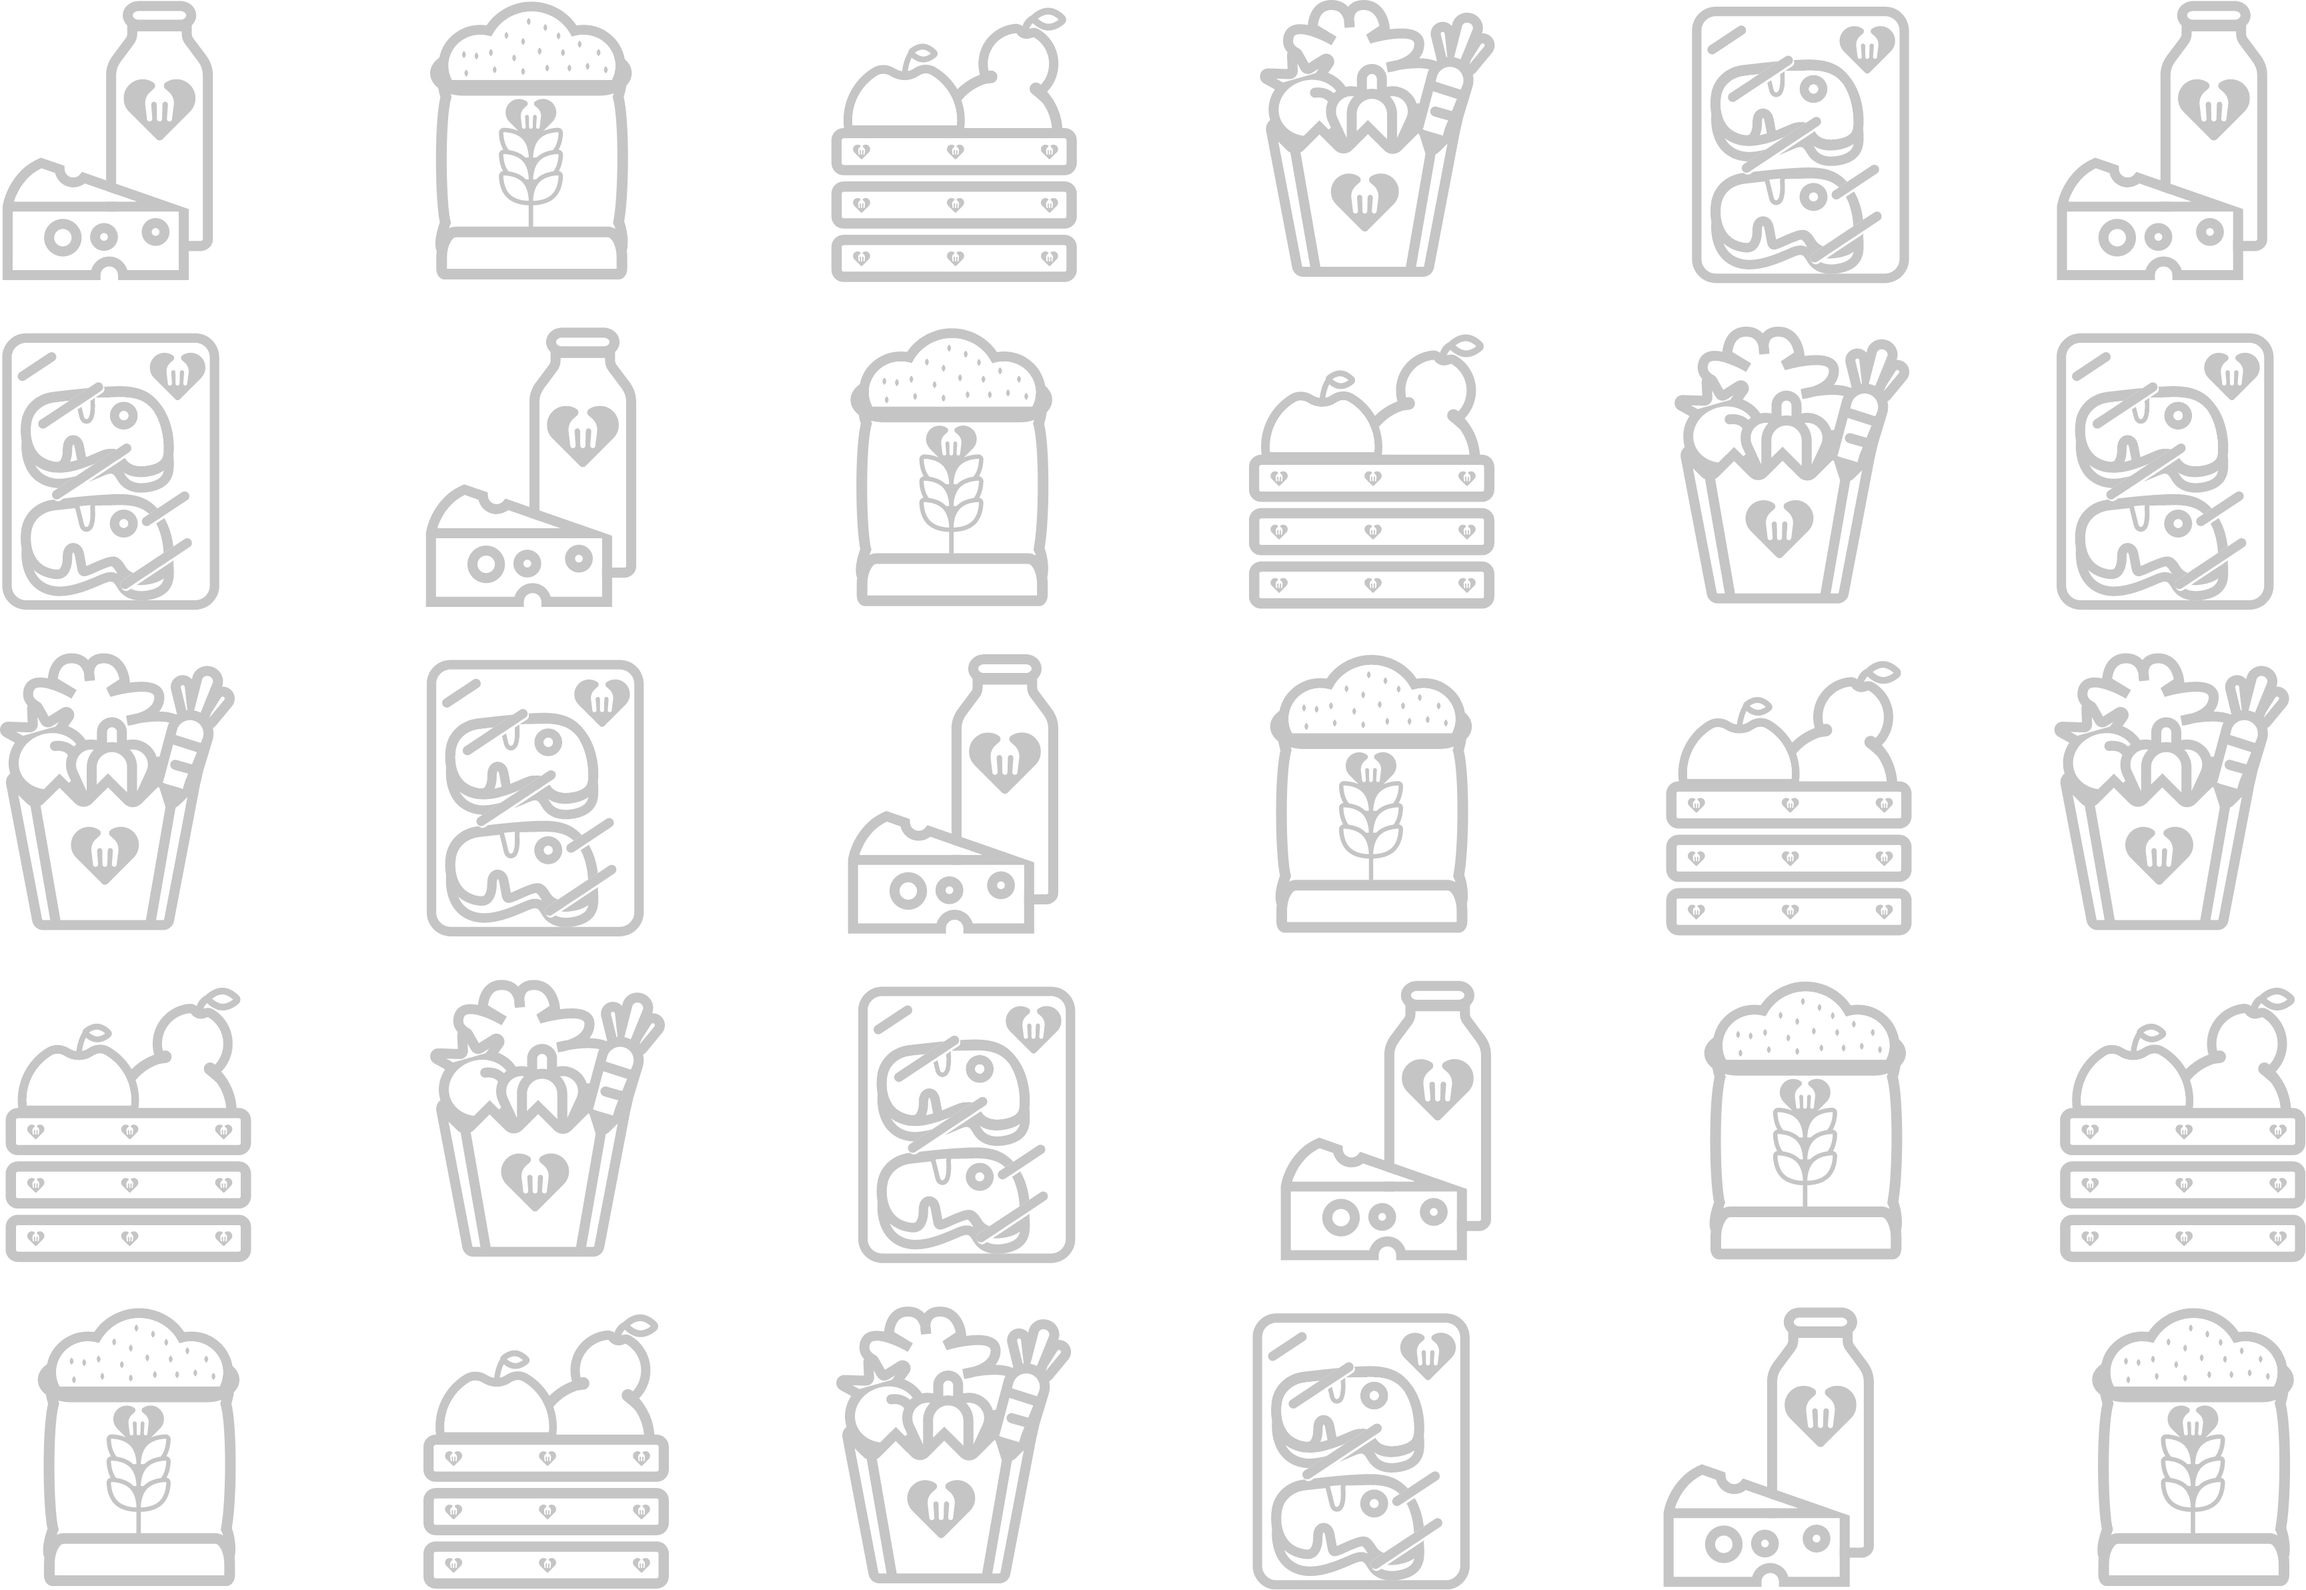
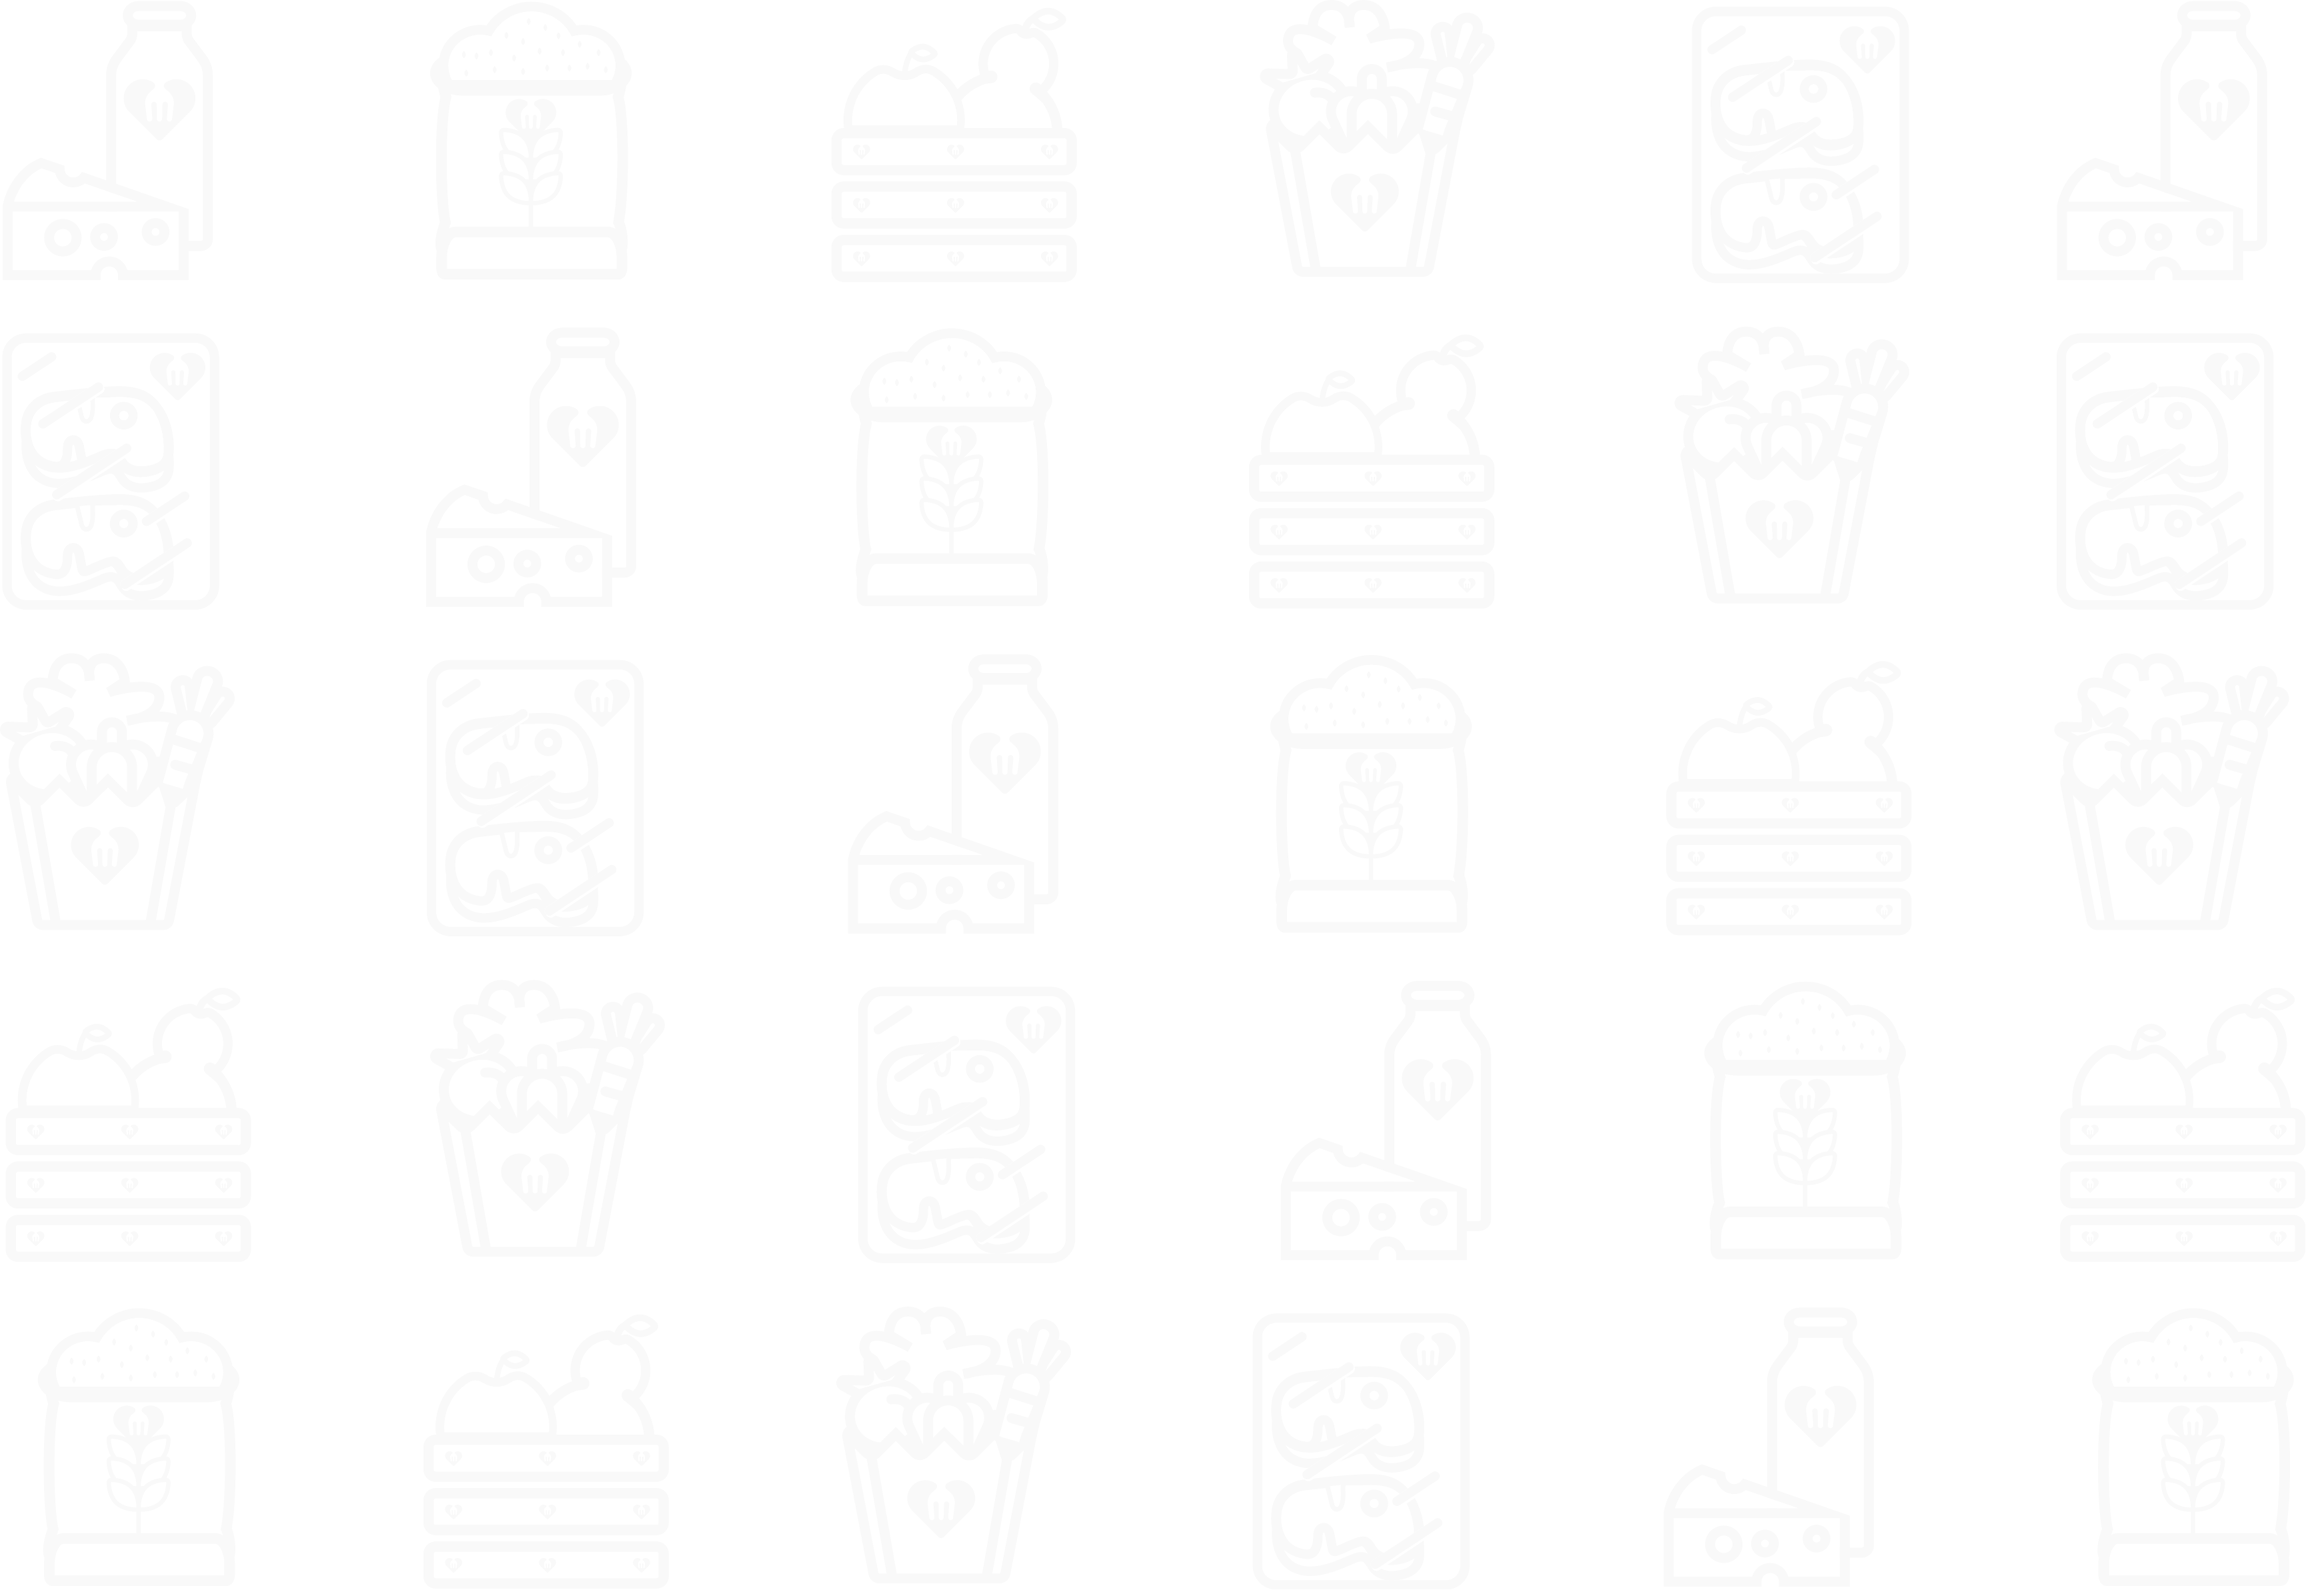
Added background

diff --git a/react_app/src/Forms/Item/EditItem/index.js b/react_app/src/Forms/Item/EditItem/index.js
@@ -1,0 +1,108 @@
+import React, {useState} from "react";
+import { useHistory } from "react-router-dom";
+import { useSelector, useDispatch } from 'react-redux';
+import { updateItem } from '../../store/posts';
+import { validateForm, uploadImage } from '../../Helpers/FormValidations/items';
+
+const EditItemForm = ({post}) => {
+    const sessionUser = useSelector(state => state.session.user);
+    const dispatch = useDispatch();
+    const history = useHistory();
+    const [title, setTitle] = useState(post.title);
+    const [description, setDescription] = useState(post.description);
+    const [quantity, setQuantity] = useState(post.quantity);
+    const [categoryId, setCategoryId] = useState(post.categoryId);
+    const [image, setImage] = useState(post.imageUrl);
+    const [expDate, setExpDate] = useState(post.expDate);
+    const [imageUploading, setImageUploading] = useState(false);
+    const [errors, setErrors] = useState([]);
+
+    const organizationId = sessionUser.organizationId;
+    const userId = sessionUser.id;
+
+    const handleSubmit = async (e) => {
+        e.preventDefault();
+        const formData = new FormData();
+        formData.append("image", image);
+
+        const itemData = {
+            organizationId,
+            userId,
+            title,
+            description,
+            quantity,
+            categoryId,
+            expDate,
+        };
+
+        const stagedPost = await validateForm(itemData)
+
+        if(stagedPost.message === 'success') {
+
+            setImageUploading(true);
+
+            const response = await uploadImage(formData)
+
+            if (response.ok) {
+                const data = await response.json();
+                const imageUrl = await data.imageUrl
+
+                const itemData = {
+                    organizationId,
+                    userId,
+                    title,
+                    description,
+                    quantity,
+                    categoryId,
+                    imageUrl,
+                    expDate,
+                };
+
+                const newPost = await dispatch(updateItem(itemData))
+
+                if(!newPost.error || !newPost.errors) {
+                    setImageUploading(false);
+                    history.push(`/posts/${newPost.id}`)
+                } else {
+                    setImageUploading(false);
+                    setErrors(newPost.errors)
+                }
+            }
+        }
+    }
+
+    const updateImage = (e) => {
+        const file = e.target.files[0];
+        console.log(file.size)
+        console.log(file.type)
+        setImage(file)
+    }
+
+    return (
+        <form style={{width: '600px', height: '1000px', display: 'flex', flexDirection: 'column'}} encType="multipart/form-data" onSubmit={handleSubmit}>
+            <input placeholder='Title' type='text' value={title} onChange={e => setTitle(e.target.value)} />
+            <textarea placeholder='Description' type='text' value={description} onChange={e => setDescription(e.target.value)} />
+            <input placeholder='Quantity' type='text' value={quantity} onChange={e => setQuantity(e.target.value)} />
+            <label htmlFor='food-group'>Choose a food category</label>
+            <select id='food-group' onChange={e => setCategoryId(e.target.value)}>
+                <optgroup label="Food category">
+                    <option value={1}>Dairy</option>
+                    <option value={2}>Vegetables</option>
+                    <option value={3}>Fruits</option>
+                    <option value={4}>Grains</option>
+                    <option value={5}>Protein</option>
+                </optgroup>
+            </select>
+            <input
+              type="file"
+              accept="image/png, image/jpeg, image/jpg"
+              onChange={updateImage}
+            />
+            <input type='date' min={new Date()} value={expDate} onChange={e => setExpDate(e.target.value)} />
+            <div style={{border: '1px solid black'}} role="button" onClick={handleSubmit}>Submit</div>
+            {(imageUploading)&& <p>Loading...</p>}
+        </form>
+    )
+}
+
+export default EditItemForm;

diff --git a/react_app/src/Components/Styled/Background.js b/react_app/src/Components/Styled/Background.js
@@ -4,6 +4,8 @@ import pattern from '../../Assets/Images/Pattern.png';
 export const Background = styled.div`
     width: 100vw;
     height: 100vh;
+    background-image: url(${pattern});
+    background-size: 60%;
     background-color: #005C4D;
     display: flex;
     flex-direction: column;
@@ -11,14 +13,5 @@ export const Background = styled.div`
     align-items: center;
     overflow-x: hidden;
     overflow-y: scroll;
-    &::-webkit-scrollbar {
-        width: 20px;
-    }
-    &::-webkit-scrollbar-track {
-        background:  linear-gradient(0deg, #76d97e 0%, #28A690 100%);
-    }
-    &::-webkit-scrollbar-thumb {
-        background: transparent;
-        box-shadow: 0px 0px 0px 100000vh black;
-    }
+
 `;

diff --git a/react_app/src/Components/Styled/Navbar.js b/react_app/src/Components/Styled/Navbar.js
@@ -1,7 +1,7 @@
 import styled from 'styled-components';
 
 export const Nav = styled.nav`
-    width: 80vw;
+    width: 1600px;
     height: 60px;
     background: linear-gradient(#76D97E, #28A690);
     display:flex;
@@ -12,7 +12,7 @@ export const Nav = styled.nav`
 
 
 export const NavList = styled.ul`
-    width: 80vw;
+    width: 1600px;
     height: 60px;
     display: flex;
     flex-direction: row;
@@ -25,7 +25,7 @@ export const SearchBar = styled.form`
     flex-direction: row;
     justify-content: flex-start;
     align-items: center;
-    width: 30vw;
+    width: 500px;
     height: 30px;
     background-color: white;
     border-radius: 50px;
